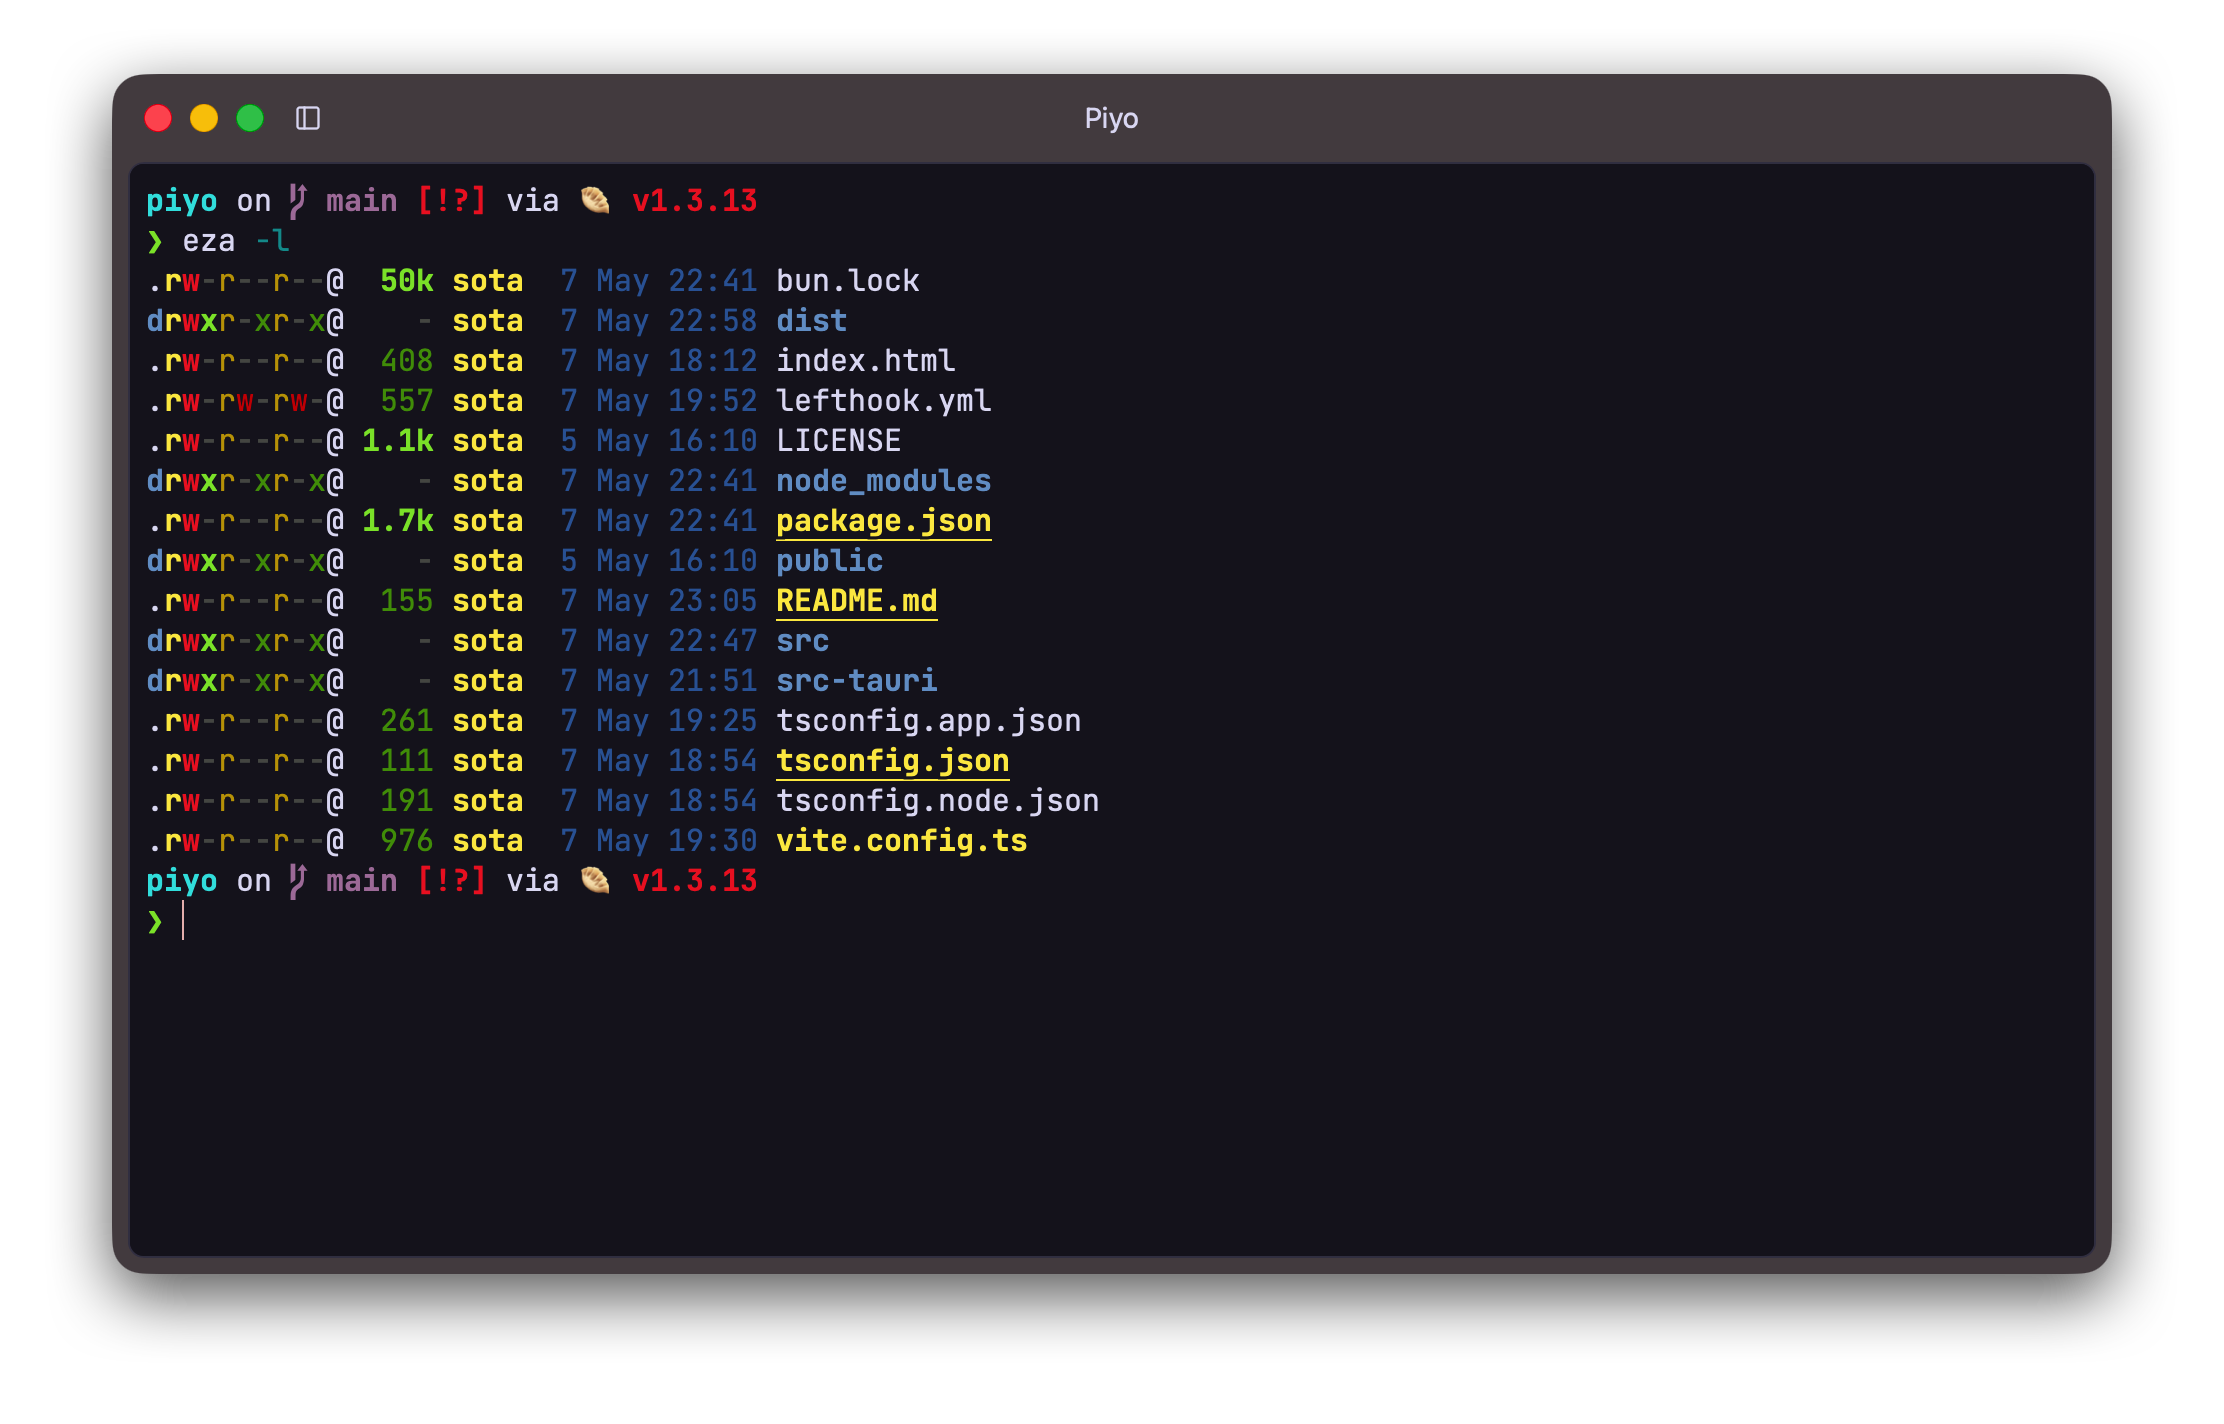
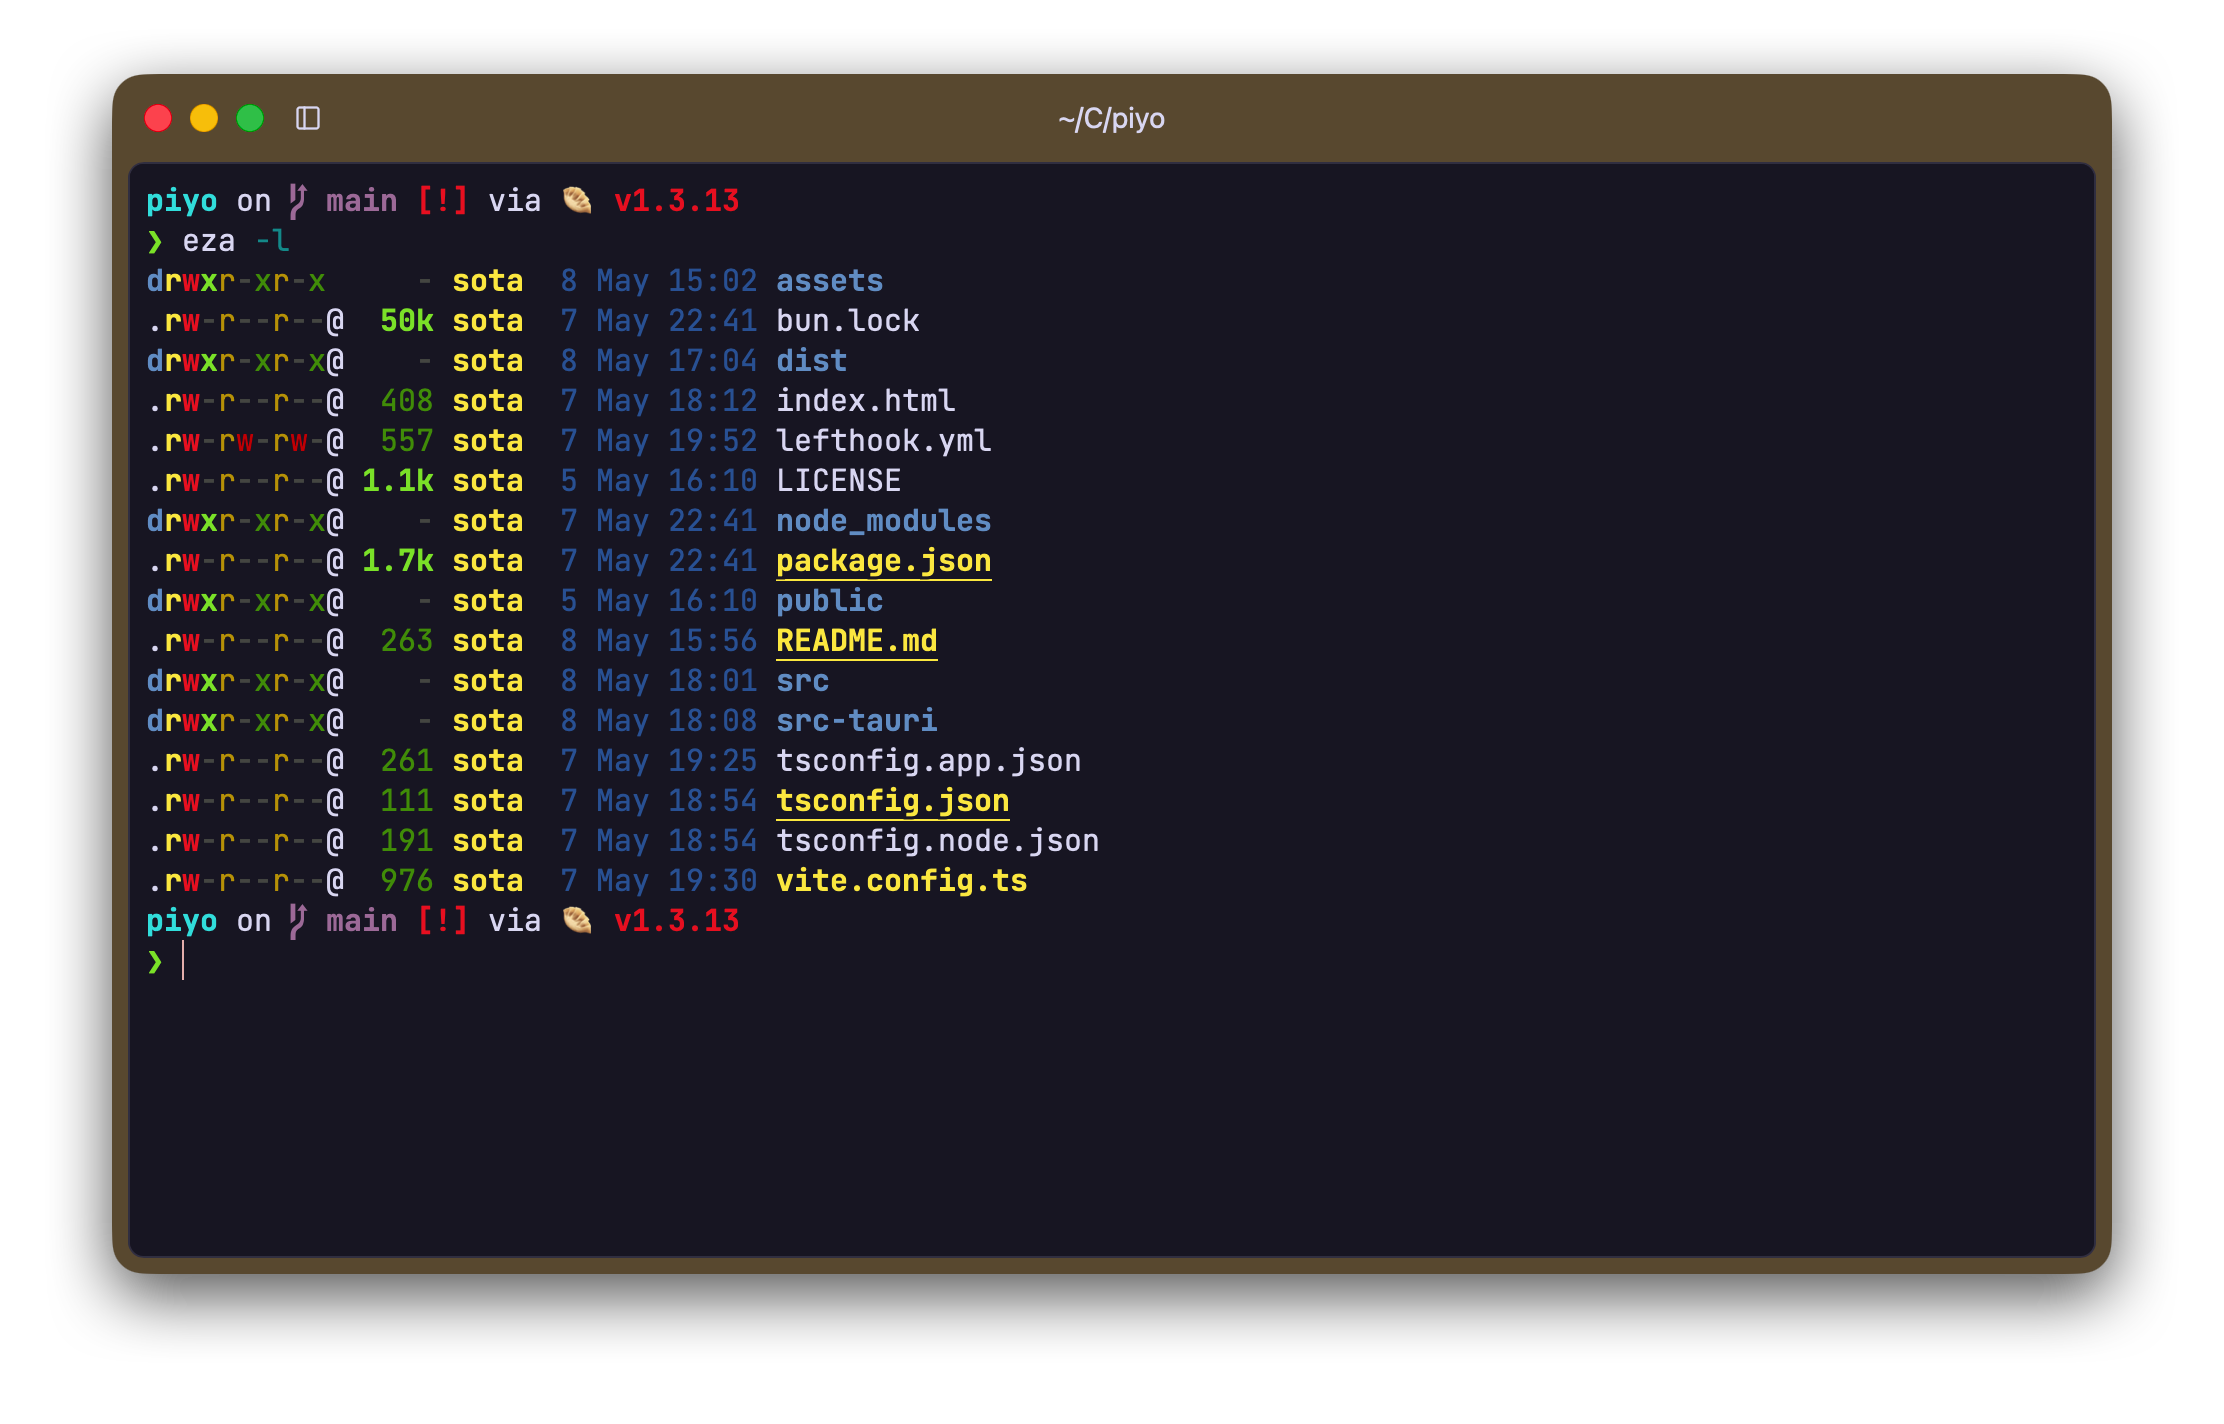
feat: observe live accent changes and skip tint for Multicolor

diff --git a/src/main.tsx b/src/main.tsx
@@ -1,6 +1,7 @@
 import React from "react";
 import ReactDOM from "react-dom/client";
 import { invoke } from "@tauri-apps/api/core";
+import { listen } from "@tauri-apps/api/event";
 import { getCurrentWindow } from "@tauri-apps/api/window";
 import "@fontsource-variable/jetbrains-mono/index.css";
 import App from "@/App";
@@ -13,6 +14,10 @@ const style = document.createElement("style");
 style.textContent = themeCss;
 document.head.appendChild(style);
 document.documentElement.style.setProperty("--theme-accent", accent);
+
+listen<string>("accent:changed", (e) => {
+    document.documentElement.style.setProperty("--theme-accent", e.payload);
+});
 
 ReactDOM.createRoot(document.getElementById("root") as HTMLElement).render(
     <React.StrictMode>

diff --git a/src/components/Terminal.tsx b/src/components/Terminal.tsx
@@ -34,7 +34,7 @@ function readThemeColors() {
     const styles = getComputedStyle(document.documentElement);
     const v = (name: string) => styles.getPropertyValue(name).trim();
     return {
-        background: v("--theme-surface"),
+        background: v("--theme-background"),
         foreground: v("--theme-foreground"),
         cursor: v("--theme-cursor"),
     };
@@ -131,7 +131,7 @@ function Terminal() {
         };
     }, []);
 
-    return <div ref={containerRef} className="absolute inset-0 overflow-hidden bg-surface" />;
+    return <div ref={containerRef} className="absolute inset-0 overflow-hidden bg-background" />;
 }
 
 export default Terminal;

diff --git a/src-tauri/themes/catppuccin-macchiato.css b/src-tauri/themes/catppuccin-macchiato.css
@@ -1,6 +1,5 @@
 :root {
-    --theme-background: #1e2030;
-    --theme-surface: #24273a;
+    --theme-background: #24273a;
     --theme-border: #363a4f;
     --theme-cursor: #f4dbd6;
     --theme-foreground: #cad3f5;

diff --git a/src-tauri/themes/default.css b/src-tauri/themes/default.css
@@ -1,6 +1,5 @@
 :root {
-    --theme-background: red;
-    --theme-surface: #1f1d2e;
+    --theme-background: #1f1d2e;
     --theme-border: #403d52;
     --theme-cursor: #ebbcba;
     --theme-foreground: #e0def4;

diff --git a/src/App.tsx b/src/App.tsx
@@ -86,7 +86,7 @@ function App() {
                 </Panel>
                 {!collapsed && <Separator />}
                 <Panel className="relative">
-                    <div className="absolute top-11 right-2 bottom-2 left-2 bg-surface rounded-lg overflow-hidden border border-border">
+                    <div className="absolute top-11 right-2 bottom-2 left-2 bg-background rounded-lg overflow-hidden border border-border">
                         {terminalRef.current}
                     </div>
                 </Panel>

diff --git a/src/App.css b/src/App.css
@@ -5,7 +5,6 @@
     --color-accent: var(--theme-accent);
     --color-accent-dark: color-mix(in oklab, var(--color-accent), black 30%);
     --color-background: var(--theme-background);
-    --color-surface: var(--theme-surface);
     --color-border: var(--theme-border);
     --color-foreground: var(--theme-foreground);
 }

diff --git a/src-tauri/src/accent.rs b/src-tauri/src/accent.rs
@@ -1,26 +1,54 @@
 #[cfg(target_os = "macos")]
-use objc2_app_kit::{NSColor, NSColorSpace};
+mod platform {
+    use std::ptr::NonNull;
 
-#[cfg(target_os = "macos")]
-fn read_accent_hex() -> String {
-    let color = NSColor::controlAccentColor();
-    match color.colorUsingColorSpace(&NSColorSpace::sRGBColorSpace()) {
-        Some(rgb) => {
-            let r = rgb.redComponent();
-            let g = rgb.greenComponent();
-            let b = rgb.blueComponent();
-            format!(
-                "#{:02x}{:02x}{:02x}",
-                (r.clamp(0.0, 1.0) * 255.0).round() as u8,
-                (g.clamp(0.0, 1.0) * 255.0).round() as u8,
-                (b.clamp(0.0, 1.0) * 255.0).round() as u8,
-            )
+    use block2::RcBlock;
+    use objc2_app_kit::{NSColor, NSColorSpace, NSSystemColorsDidChangeNotification};
+    use objc2_foundation::{NSNotification, NSNotificationCenter, NSUserDefaults, ns_string};
+    use tauri::{AppHandle, Emitter};
+
+    const ACCENT_EVENT: &str = "accent:changed";
+    const FALLBACK: &str = "transparent";
+
+    pub fn read_accent_hex() -> String {
+        let defaults = NSUserDefaults::standardUserDefaults();
+        if defaults
+            .objectForKey(ns_string!("AppleAccentColor"))
+            .is_none()
+        {
+            return FALLBACK.into();
         }
-        None => "transparent".into(),
+        match NSColor::controlAccentColor().colorUsingColorSpace(&NSColorSpace::sRGBColorSpace()) {
+            Some(rgb) => {
+                let r = (rgb.redComponent().clamp(0.0, 1.0) * 255.0).round() as u8;
+                let g = (rgb.greenComponent().clamp(0.0, 1.0) * 255.0).round() as u8;
+                let b = (rgb.blueComponent().clamp(0.0, 1.0) * 255.0).round() as u8;
+                format!("#{r:02x}{g:02x}{b:02x}")
+            }
+            None => FALLBACK.into(),
+        }
+    }
+
+    pub fn install_observer(app: AppHandle) {
+        let block = RcBlock::new(move |_: NonNull<NSNotification>| {
+            app.emit(ACCENT_EVENT, read_accent_hex()).ok();
+        });
+        let center = NSNotificationCenter::defaultCenter();
+        unsafe {
+            let _ = center.addObserverForName_object_queue_usingBlock(
+                Some(NSSystemColorsDidChangeNotification),
+                None,
+                None,
+                &block,
+            );
+        }
     }
 }
 
+#[cfg(target_os = "macos")]
+pub use platform::install_observer;
+
 #[tauri::command]
 pub fn get_accent_color() -> String {
-    read_accent_hex()
+    platform::read_accent_hex()
 }

diff --git a/src-tauri/src/lib.rs b/src-tauri/src/lib.rs
@@ -32,6 +32,9 @@ pub fn run() {
             )
             .expect("failed to apply window vibrancy");
 
+            #[cfg(target_os = "macos")]
+            accent::install_observer(app.handle().clone());
+
             Ok(())
         })
         .invoke_handler(tauri::generate_handler![